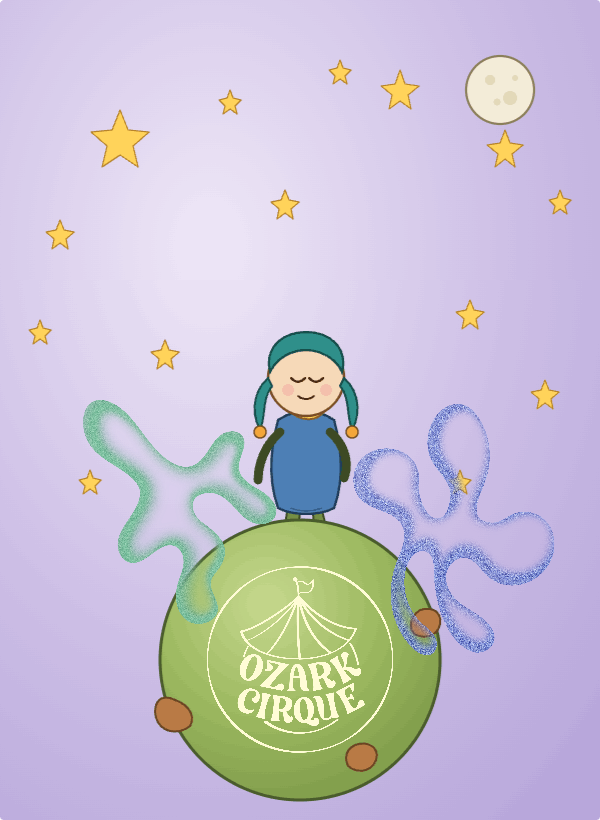
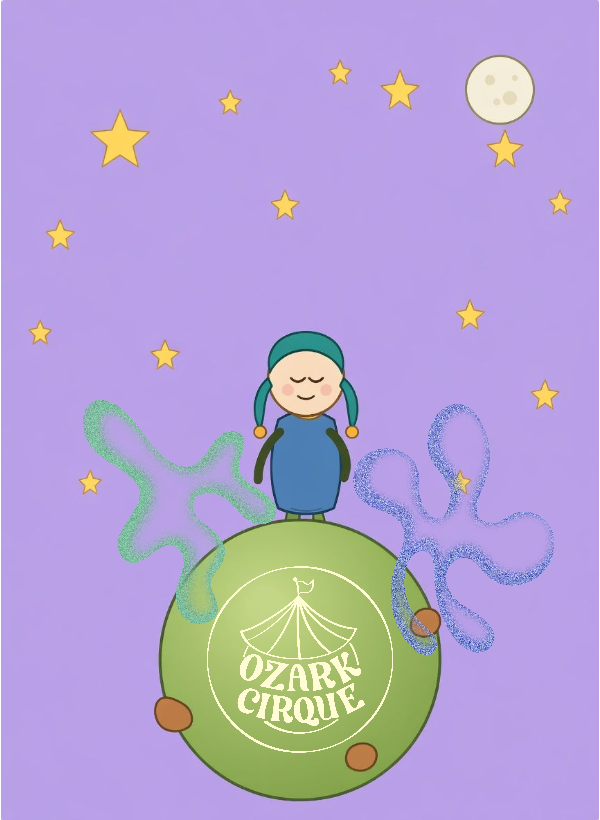
homepage light mode uses lavender bg from illustration, dark mode unchanged, rest of site keeps standard toggle

diff --git a/src/app/page.module.css b/src/app/page.module.css
@@ -1,3 +1,14 @@
+:global(html:not([data-theme='dark'])) .homeWrapper {
+  --bg: #b99fe7;
+  --fg: #17101f;
+  --muted: #4a3d5c;
+  --subtle: #a688d9;
+}
+
+.homeWrapper {
+  background: var(--bg);
+}
+
 .hero {
   padding: 96px 32px 20px;
   max-width: 1400px;
@@ -46,10 +57,8 @@
 }
 
 .illustration {
-  height: clamp(220px, 42vh, 520px);
-  width: auto;
-  aspect-ratio: 1 / 1;
-  border-radius: 50%;
+  width: clamp(110px, 14vw, 180px);
+  aspect-ratio: 600 / 820;
   display: flex;
   align-items: center;
   justify-content: center;

diff --git a/src/app/page.tsx b/src/app/page.tsx
@@ -11,7 +11,7 @@ export default function Home() {
     <>
       <Nav />
 
-      <main>
+      <main className={styles.homeWrapper}>
         {/* ── HERO ── */}
         <section className={styles.hero}>
           <h1 className={styles.heroName}>BRITTANY PAUL</h1>
